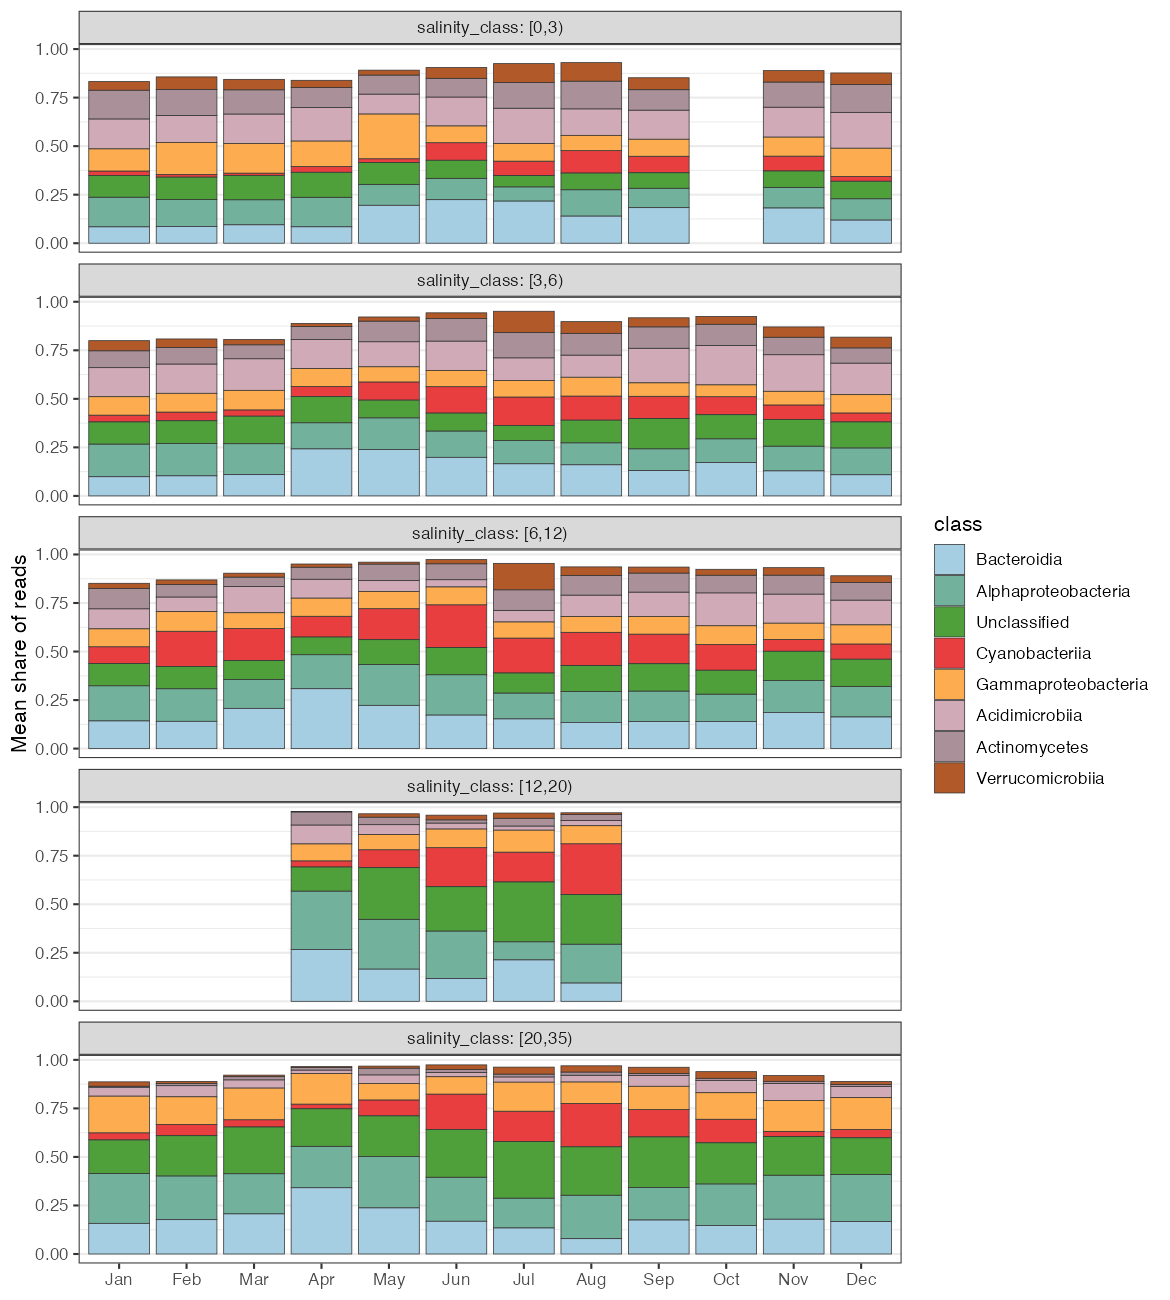
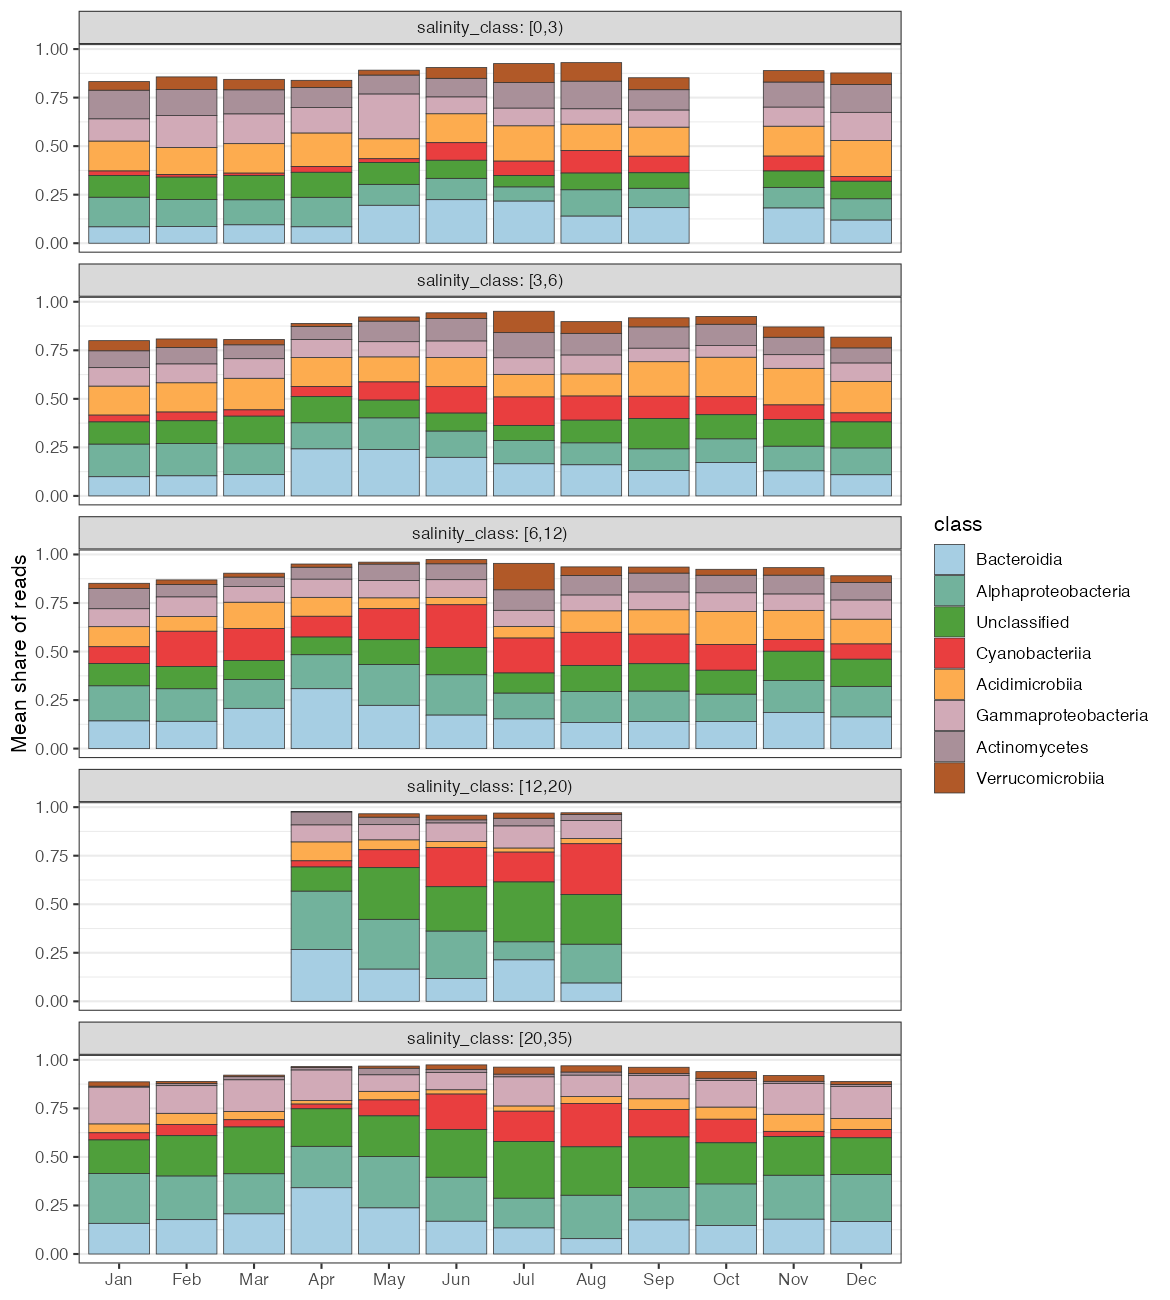
Simplify the plankton composition page and fix its sample set
Leave out samples without salinity, or outside the salinity intervals,
when picking the top taxa, so that they are chosen from the same samples
as the means in the figure. Align the text with track A and note why
bars may not reach 100%. Rebuild the script, figure and page.

diff --git a/docs/plankton-04-composition.html b/docs/plankton-04-composition.html
@@ -186,10 +186,10 @@ pre > code.sourceCode > span > a:first-child::before { text-decoration: underlin
 </header>
 
 
-<p><em>Summarise taxonomic composition across salinity and months using stacked barplots.</em></p>
+<p><em>Compare the relative abundance of plankton groups across salinity and months.</em></p>
 <section id="sum-reads-by-taxonomy" class="level3">
 <h3 class="anchored" data-anchor-id="sum-reads-by-taxonomy">Sum reads by taxonomy</h3>
-<p><code>sum_clades_long()</code> from <a href="./tutorial-02-prep.html">step 2</a> can be limited to one taxonomic rank. The result is small enough to bring into R. We then add the salinity and month of each sample, and group the salinity into intervals:</p>
+<p>We use <code>sum_clades_long()</code> from <a href="./tutorial-02-prep.html">step 2</a> to aggregate reads at a chosen taxonomic rank, then add month and group salinity into intervals. Samples without salinity measurements or outside the selected salinity intervals are excluded from the comparison. The intervals are chosen for the figure, not as a biological classification.</p>
 <div class="code-copy-outer-scaffold"><div class="sourceCode" id="cb1"><pre class="sourceCode r code-with-copy"><code class="sourceCode r"><span id="cb1-1"><a href="#cb1-1" aria-hidden="true" tabindex="-1"></a>salinity_breaks <span class="ot">&lt;-</span> <span class="fu">c</span>(<span class="dv">0</span>, <span class="dv">3</span>, <span class="dv">6</span>, <span class="dv">12</span>, <span class="dv">20</span>, <span class="dv">35</span>)</span>
 <span id="cb1-2"><a href="#cb1-2" aria-hidden="true" tabindex="-1"></a></span>
 <span id="cb1-3"><a href="#cb1-3" aria-hidden="true" tabindex="-1"></a>get_composition <span class="ot">&lt;-</span> <span class="cf">function</span>(rank) {</span>
@@ -197,53 +197,57 @@ pre > code.sourceCode > span > a:first-child::before { text-decoration: underlin
 <span id="cb1-5"><a href="#cb1-5" aria-hidden="true" tabindex="-1"></a>    <span class="fu">as.data.frame</span>()</span>
 <span id="cb1-6"><a href="#cb1-6" aria-hidden="true" tabindex="-1"></a>  composition <span class="ot">&lt;-</span> <span class="fu">merge</span>(composition, events[<span class="fu">c</span>(<span class="st">"eventID"</span>, <span class="st">"salinity"</span>, <span class="st">"month"</span>)], <span class="at">by =</span> <span class="st">"eventID"</span>)</span>
 <span id="cb1-7"><a href="#cb1-7" aria-hidden="true" tabindex="-1"></a>  composition<span class="sc">$</span>salinity_class <span class="ot">&lt;-</span> <span class="fu">cut</span>(composition<span class="sc">$</span>salinity, salinity_breaks, <span class="at">right =</span> <span class="cn">FALSE</span>)</span>
-<span id="cb1-8"><a href="#cb1-8" aria-hidden="true" tabindex="-1"></a>  composition</span>
+<span id="cb1-8"><a href="#cb1-8" aria-hidden="true" tabindex="-1"></a>  composition[<span class="sc">!</span><span class="fu">is.na</span>(composition<span class="sc">$</span>salinity_class), ]</span>
 <span id="cb1-9"><a href="#cb1-9" aria-hidden="true" tabindex="-1"></a>}</span></code></pre></div><button title="Copy to Clipboard" class="code-copy-button"><i class="bi"></i></button></div>
-<p>Only the available ranks work here: kingdom, phylum, class, order, family, genus, species and otu.</p>
+<p>Available ranks are kingdom, phylum, class, order, family, genus, species and otu.</p>
 </section>
-<section id="define-the-barplot-function" class="level3">
-<h3 class="anchored" data-anchor-id="define-the-barplot-function">Define the barplot function</h3>
-<p>The function below identifies the most abundant taxa, calculates their mean relative abundance for each salinity interval and month, and draws stacked barplots with <a href="https://ggplot2.tidyverse.org/" target="_blank"><code>ggplot2</code></a>. <code>ggplot2</code> draws directly from a table with one row per value: each row of <code>monthly</code> becomes one segment of a bar.</p>
+<section id="plot-taxonomic-composition" class="level3">
+<h3 class="anchored" data-anchor-id="plot-taxonomic-composition">Plot taxonomic composition</h3>
+<p>The function below selects the most abundant taxa and plots their <strong>mean share of reads</strong> for each salinity interval and month using <a href="https://ggplot2.tidyverse.org/" target="_blank"><code>ggplot2</code></a>.</p>
 <div class="code-copy-outer-scaffold"><div class="sourceCode" id="cb2"><pre class="sourceCode r code-with-copy"><code class="sourceCode r"><span id="cb2-1"><a href="#cb2-1" aria-hidden="true" tabindex="-1"></a>plot_barplots <span class="ot">&lt;-</span> <span class="cf">function</span>(rank, <span class="at">top_x =</span> <span class="dv">10</span>) {</span>
 <span id="cb2-2"><a href="#cb2-2" aria-hidden="true" tabindex="-1"></a>  composition <span class="ot">&lt;-</span> <span class="fu">get_composition</span>(rank)</span>
-<span id="cb2-3"><a href="#cb2-3" aria-hidden="true" tabindex="-1"></a>  sampled <span class="ot">&lt;-</span> events[<span class="sc">!</span><span class="fu">is.na</span>(events<span class="sc">$</span>salinity), ]</span>
+<span id="cb2-3"><a href="#cb2-3" aria-hidden="true" tabindex="-1"></a>  sampled <span class="ot">&lt;-</span> events</span>
 <span id="cb2-4"><a href="#cb2-4" aria-hidden="true" tabindex="-1"></a>  sampled<span class="sc">$</span>salinity_class <span class="ot">&lt;-</span> <span class="fu">cut</span>(sampled<span class="sc">$</span>salinity, salinity_breaks, <span class="at">right =</span> <span class="cn">FALSE</span>)</span>
-<span id="cb2-5"><a href="#cb2-5" aria-hidden="true" tabindex="-1"></a></span>
-<span id="cb2-6"><a href="#cb2-6" aria-hidden="true" tabindex="-1"></a>  <span class="co"># Absent taxa have no rows, so a mean is the sum divided by the number of samples</span></span>
-<span id="cb2-7"><a href="#cb2-7" aria-hidden="true" tabindex="-1"></a>  totals <span class="ot">&lt;-</span> <span class="fu">tapply</span>(composition<span class="sc">$</span>norm, composition<span class="sc">$</span>clade, sum)</span>
-<span id="cb2-8"><a href="#cb2-8" aria-hidden="true" tabindex="-1"></a>  top <span class="ot">&lt;-</span> <span class="fu">names</span>(<span class="fu">sort</span>(totals <span class="sc">/</span> <span class="fu">nrow</span>(sampled), <span class="at">decreasing =</span> <span class="cn">TRUE</span>))[<span class="dv">1</span><span class="sc">:</span>top_x]</span>
-<span id="cb2-9"><a href="#cb2-9" aria-hidden="true" tabindex="-1"></a></span>
-<span id="cb2-10"><a href="#cb2-10" aria-hidden="true" tabindex="-1"></a>  monthly <span class="ot">&lt;-</span> <span class="fu">aggregate</span>(norm <span class="sc">~</span> clade <span class="sc">+</span> salinity_class <span class="sc">+</span> month,</span>
-<span id="cb2-11"><a href="#cb2-11" aria-hidden="true" tabindex="-1"></a>                       composition[composition<span class="sc">$</span>clade <span class="sc">%in%</span> top, ], sum)</span>
-<span id="cb2-12"><a href="#cb2-12" aria-hidden="true" tabindex="-1"></a>  n_samples <span class="ot">&lt;-</span> <span class="fu">aggregate</span>(eventID <span class="sc">~</span> salinity_class <span class="sc">+</span> month, sampled, length)</span>
-<span id="cb2-13"><a href="#cb2-13" aria-hidden="true" tabindex="-1"></a>  monthly <span class="ot">&lt;-</span> <span class="fu">merge</span>(monthly, n_samples)</span>
-<span id="cb2-14"><a href="#cb2-14" aria-hidden="true" tabindex="-1"></a>  monthly<span class="sc">$</span>share <span class="ot">&lt;-</span> monthly<span class="sc">$</span>norm <span class="sc">/</span> monthly<span class="sc">$</span>eventID</span>
-<span id="cb2-15"><a href="#cb2-15" aria-hidden="true" tabindex="-1"></a></span>
-<span id="cb2-16"><a href="#cb2-16" aria-hidden="true" tabindex="-1"></a>  <span class="co"># Reversed levels put the most abundant taxon at the bottom of each bar</span></span>
-<span id="cb2-17"><a href="#cb2-17" aria-hidden="true" tabindex="-1"></a>  monthly<span class="sc">$</span>clade <span class="ot">&lt;-</span> <span class="fu">factor</span>(monthly<span class="sc">$</span>clade, <span class="at">levels =</span> <span class="fu">rev</span>(top))</span>
-<span id="cb2-18"><a href="#cb2-18" aria-hidden="true" tabindex="-1"></a>  monthly<span class="sc">$</span>month <span class="ot">&lt;-</span> <span class="fu">factor</span>(monthly<span class="sc">$</span>month, <span class="at">levels =</span> <span class="dv">1</span><span class="sc">:</span><span class="dv">12</span>, <span class="at">labels =</span> month.abb)</span>
-<span id="cb2-19"><a href="#cb2-19" aria-hidden="true" tabindex="-1"></a></span>
-<span id="cb2-20"><a href="#cb2-20" aria-hidden="true" tabindex="-1"></a>  mycols <span class="ot">&lt;-</span> <span class="fu">colorRampPalette</span>(<span class="fu">c</span>(</span>
-<span id="cb2-21"><a href="#cb2-21" aria-hidden="true" tabindex="-1"></a>    <span class="st">"#a6cee3"</span>, <span class="st">"#1f78b4"</span>, <span class="st">"#b2df8a"</span>, <span class="st">"#33a02c"</span>,</span>
-<span id="cb2-22"><a href="#cb2-22" aria-hidden="true" tabindex="-1"></a>    <span class="st">"#fb9a99"</span>, <span class="st">"#e31a1c"</span>, <span class="st">"#fdbf6f"</span>, <span class="st">"#ff7f00"</span>,</span>
-<span id="cb2-23"><a href="#cb2-23" aria-hidden="true" tabindex="-1"></a>    <span class="st">"#cab2d6"</span>, <span class="st">"#6a3d9a"</span>, <span class="st">"#ffff99"</span>, <span class="st">"#b15928"</span></span>
-<span id="cb2-24"><a href="#cb2-24" aria-hidden="true" tabindex="-1"></a>  ))</span>
-<span id="cb2-25"><a href="#cb2-25" aria-hidden="true" tabindex="-1"></a></span>
-<span id="cb2-26"><a href="#cb2-26" aria-hidden="true" tabindex="-1"></a>  <span class="fu">ggplot</span>(monthly, <span class="fu">aes</span>(<span class="at">x =</span> month, <span class="at">y =</span> share, <span class="at">fill =</span> clade)) <span class="sc">+</span></span>
-<span id="cb2-27"><a href="#cb2-27" aria-hidden="true" tabindex="-1"></a>    <span class="fu">geom_col</span>(<span class="at">colour =</span> <span class="st">"grey20"</span>, <span class="at">linewidth =</span> <span class="fl">0.2</span>) <span class="sc">+</span></span>
-<span id="cb2-28"><a href="#cb2-28" aria-hidden="true" tabindex="-1"></a>    <span class="fu">facet_wrap</span>(<span class="sc">~</span>salinity_class, <span class="at">ncol =</span> <span class="dv">1</span>, <span class="at">labeller =</span> label_both) <span class="sc">+</span></span>
-<span id="cb2-29"><a href="#cb2-29" aria-hidden="true" tabindex="-1"></a>    <span class="fu">scale_x_discrete</span>(<span class="at">drop =</span> <span class="cn">FALSE</span>) <span class="sc">+</span></span>
-<span id="cb2-30"><a href="#cb2-30" aria-hidden="true" tabindex="-1"></a>    <span class="fu">scale_fill_manual</span>(<span class="at">values =</span> <span class="fu">setNames</span>(<span class="fu">mycols</span>(top_x), top), <span class="at">breaks =</span> top, <span class="at">name =</span> rank) <span class="sc">+</span></span>
-<span id="cb2-31"><a href="#cb2-31" aria-hidden="true" tabindex="-1"></a>    <span class="fu">labs</span>(<span class="at">x =</span> <span class="cn">NULL</span>, <span class="at">y =</span> <span class="st">"Mean share of reads"</span>) <span class="sc">+</span></span>
-<span id="cb2-32"><a href="#cb2-32" aria-hidden="true" tabindex="-1"></a>    <span class="fu">theme_bw</span>(<span class="at">base_size =</span> <span class="dv">12</span>) <span class="sc">+</span></span>
-<span id="cb2-33"><a href="#cb2-33" aria-hidden="true" tabindex="-1"></a>    <span class="fu">theme</span>(<span class="at">panel.grid.major.x =</span> <span class="fu">element_blank</span>())</span>
-<span id="cb2-34"><a href="#cb2-34" aria-hidden="true" tabindex="-1"></a>}</span></code></pre></div><button title="Copy to Clipboard" class="code-copy-button"><i class="bi"></i></button></div>
+<span id="cb2-5"><a href="#cb2-5" aria-hidden="true" tabindex="-1"></a>  sampled <span class="ot">&lt;-</span> sampled[<span class="sc">!</span><span class="fu">is.na</span>(sampled<span class="sc">$</span>salinity_class), ]</span>
+<span id="cb2-6"><a href="#cb2-6" aria-hidden="true" tabindex="-1"></a></span>
+<span id="cb2-7"><a href="#cb2-7" aria-hidden="true" tabindex="-1"></a>  <span class="co"># Absent taxa have no rows, so a mean is the sum divided by the number of samples</span></span>
+<span id="cb2-8"><a href="#cb2-8" aria-hidden="true" tabindex="-1"></a>  totals <span class="ot">&lt;-</span> <span class="fu">tapply</span>(composition<span class="sc">$</span>norm, composition<span class="sc">$</span>clade, sum)</span>
+<span id="cb2-9"><a href="#cb2-9" aria-hidden="true" tabindex="-1"></a>  top <span class="ot">&lt;-</span> <span class="fu">names</span>(<span class="fu">sort</span>(totals <span class="sc">/</span> <span class="fu">nrow</span>(sampled), <span class="at">decreasing =</span> <span class="cn">TRUE</span>))[<span class="dv">1</span><span class="sc">:</span>top_x]</span>
+<span id="cb2-10"><a href="#cb2-10" aria-hidden="true" tabindex="-1"></a></span>
+<span id="cb2-11"><a href="#cb2-11" aria-hidden="true" tabindex="-1"></a>  monthly <span class="ot">&lt;-</span> <span class="fu">aggregate</span>(norm <span class="sc">~</span> clade <span class="sc">+</span> salinity_class <span class="sc">+</span> month,</span>
+<span id="cb2-12"><a href="#cb2-12" aria-hidden="true" tabindex="-1"></a>                       composition[composition<span class="sc">$</span>clade <span class="sc">%in%</span> top, ], sum)</span>
+<span id="cb2-13"><a href="#cb2-13" aria-hidden="true" tabindex="-1"></a>  n_samples <span class="ot">&lt;-</span> <span class="fu">aggregate</span>(eventID <span class="sc">~</span> salinity_class <span class="sc">+</span> month, sampled, length)</span>
+<span id="cb2-14"><a href="#cb2-14" aria-hidden="true" tabindex="-1"></a>  monthly <span class="ot">&lt;-</span> <span class="fu">merge</span>(monthly, n_samples)</span>
+<span id="cb2-15"><a href="#cb2-15" aria-hidden="true" tabindex="-1"></a>  monthly<span class="sc">$</span>share <span class="ot">&lt;-</span> monthly<span class="sc">$</span>norm <span class="sc">/</span> monthly<span class="sc">$</span>eventID</span>
+<span id="cb2-16"><a href="#cb2-16" aria-hidden="true" tabindex="-1"></a></span>
+<span id="cb2-17"><a href="#cb2-17" aria-hidden="true" tabindex="-1"></a>  <span class="co"># Reversed levels put the most abundant taxon at the bottom of each bar</span></span>
+<span id="cb2-18"><a href="#cb2-18" aria-hidden="true" tabindex="-1"></a>  monthly<span class="sc">$</span>clade <span class="ot">&lt;-</span> <span class="fu">factor</span>(monthly<span class="sc">$</span>clade, <span class="at">levels =</span> <span class="fu">rev</span>(top))</span>
+<span id="cb2-19"><a href="#cb2-19" aria-hidden="true" tabindex="-1"></a>  monthly<span class="sc">$</span>month <span class="ot">&lt;-</span> <span class="fu">factor</span>(monthly<span class="sc">$</span>month, <span class="at">levels =</span> <span class="dv">1</span><span class="sc">:</span><span class="dv">12</span>, <span class="at">labels =</span> month.abb)</span>
+<span id="cb2-20"><a href="#cb2-20" aria-hidden="true" tabindex="-1"></a></span>
+<span id="cb2-21"><a href="#cb2-21" aria-hidden="true" tabindex="-1"></a>  mycols <span class="ot">&lt;-</span> <span class="fu">colorRampPalette</span>(<span class="fu">c</span>(</span>
+<span id="cb2-22"><a href="#cb2-22" aria-hidden="true" tabindex="-1"></a>    <span class="st">"#a6cee3"</span>, <span class="st">"#1f78b4"</span>, <span class="st">"#b2df8a"</span>, <span class="st">"#33a02c"</span>,</span>
+<span id="cb2-23"><a href="#cb2-23" aria-hidden="true" tabindex="-1"></a>    <span class="st">"#fb9a99"</span>, <span class="st">"#e31a1c"</span>, <span class="st">"#fdbf6f"</span>, <span class="st">"#ff7f00"</span>,</span>
+<span id="cb2-24"><a href="#cb2-24" aria-hidden="true" tabindex="-1"></a>    <span class="st">"#cab2d6"</span>, <span class="st">"#6a3d9a"</span>, <span class="st">"#ffff99"</span>, <span class="st">"#b15928"</span></span>
+<span id="cb2-25"><a href="#cb2-25" aria-hidden="true" tabindex="-1"></a>  ))</span>
+<span id="cb2-26"><a href="#cb2-26" aria-hidden="true" tabindex="-1"></a></span>
+<span id="cb2-27"><a href="#cb2-27" aria-hidden="true" tabindex="-1"></a>  <span class="fu">ggplot</span>(monthly, <span class="fu">aes</span>(<span class="at">x =</span> month, <span class="at">y =</span> share, <span class="at">fill =</span> clade)) <span class="sc">+</span></span>
+<span id="cb2-28"><a href="#cb2-28" aria-hidden="true" tabindex="-1"></a>    <span class="fu">geom_col</span>(<span class="at">colour =</span> <span class="st">"grey20"</span>, <span class="at">linewidth =</span> <span class="fl">0.2</span>) <span class="sc">+</span></span>
+<span id="cb2-29"><a href="#cb2-29" aria-hidden="true" tabindex="-1"></a>    <span class="fu">facet_wrap</span>(<span class="sc">~</span>salinity_class, <span class="at">ncol =</span> <span class="dv">1</span>, <span class="at">labeller =</span> label_both) <span class="sc">+</span></span>
+<span id="cb2-30"><a href="#cb2-30" aria-hidden="true" tabindex="-1"></a>    <span class="fu">scale_x_discrete</span>(<span class="at">drop =</span> <span class="cn">FALSE</span>) <span class="sc">+</span></span>
+<span id="cb2-31"><a href="#cb2-31" aria-hidden="true" tabindex="-1"></a>    <span class="fu">scale_fill_manual</span>(<span class="at">values =</span> <span class="fu">setNames</span>(<span class="fu">mycols</span>(top_x), top), <span class="at">breaks =</span> top, <span class="at">name =</span> rank) <span class="sc">+</span></span>
+<span id="cb2-32"><a href="#cb2-32" aria-hidden="true" tabindex="-1"></a>    <span class="fu">labs</span>(<span class="at">x =</span> <span class="cn">NULL</span>, <span class="at">y =</span> <span class="st">"Mean share of reads"</span>) <span class="sc">+</span></span>
+<span id="cb2-33"><a href="#cb2-33" aria-hidden="true" tabindex="-1"></a>    <span class="fu">theme_bw</span>(<span class="at">base_size =</span> <span class="dv">12</span>) <span class="sc">+</span></span>
+<span id="cb2-34"><a href="#cb2-34" aria-hidden="true" tabindex="-1"></a>    <span class="fu">theme</span>(<span class="at">panel.grid.major.x =</span> <span class="fu">element_blank</span>())</span>
+<span id="cb2-35"><a href="#cb2-35" aria-hidden="true" tabindex="-1"></a>}</span></code></pre></div><button title="Copy to Clipboard" class="code-copy-button"><i class="bi"></i></button></div>
 </section>
 <section id="example-plot-top-classes" class="level3">
 <h3 class="anchored" data-anchor-id="example-plot-top-classes">Example: plot top classes</h3>
-<p>Plot the eight most abundant classes across salinity and months:</p>
+<p>Plot the eight most abundant classes:</p>
 <div class="code-copy-outer-scaffold"><div class="sourceCode" id="cb3"><pre class="sourceCode r code-with-copy"><code class="sourceCode r"><span id="cb3-1"><a href="#cb3-1" aria-hidden="true" tabindex="-1"></a><span class="fu">plot_barplots</span>(<span class="at">rank =</span> <span class="st">"class"</span>, <span class="at">top_x =</span> <span class="dv">8</span>)</span></code></pre></div><button title="Copy to Clipboard" class="code-copy-button"><i class="bi"></i></button></div>
-<p>Bacteroidia and Alphaproteobacteria are common at all salinities. Acidimicrobiia and Actinomycetes are more common in the least salty water, and Cyanobacteriia increase in summer. Many reads cannot be assigned to a class (<code>Unclassified</code>). Note that these are shares of the reads, not of the number of cells. Empty months had no samples in that salinity interval.</p>
+<p>Each bar shows the mean relative abundance of these classes among samples from a given salinity interval and month.</p>
+<p>Bacteroidia and Alphaproteobacteria are common across salinities, while Acidimicrobiia and Actinomycetes are more common in less saline water. Cyanobacteriia increase in summer, and many reads remain <code>Unclassified</code>.</p>
+<p>These are <strong>shares of sequencing reads</strong>, not estimates of cell abundance. Bars may not add up to 100% because only the eight most abundant classes are shown. Empty months indicate that no samples were available in that salinity interval.</p>
+<p><strong>Consider:</strong> How does community composition vary with salinity and season? Can we separate these effects given the sampling patterns seen in step 3?</p>
 <hr>
 <p><a href="./plankton-03-map.html">← Previous</a> · <a href="./tutorial.html">Overview</a> · <a href="./plankton-05-beta.html">Next →</a></p>
 
